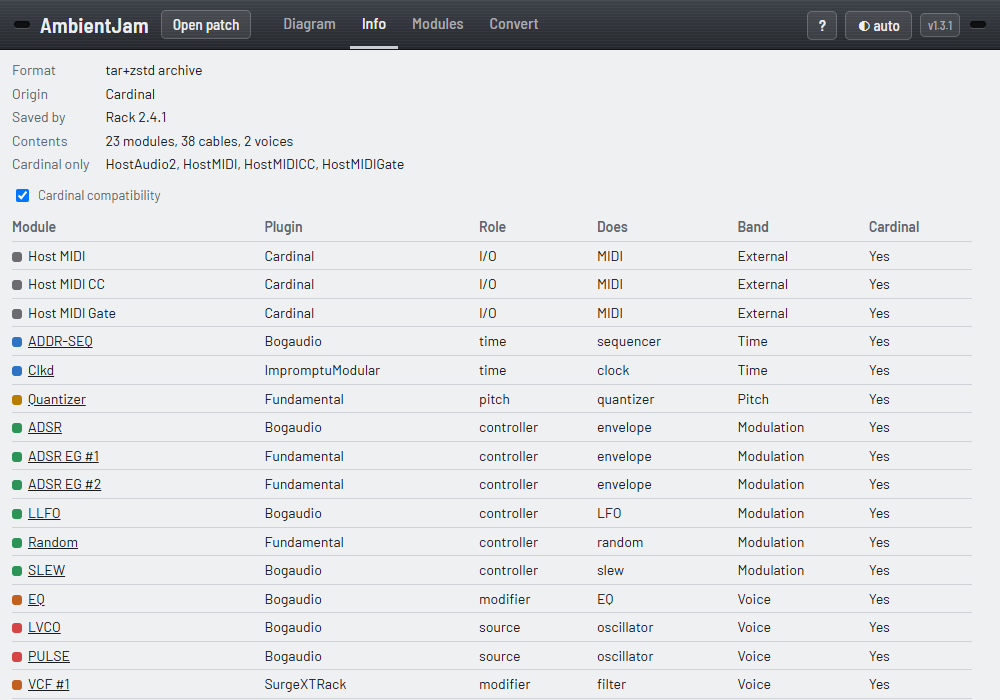
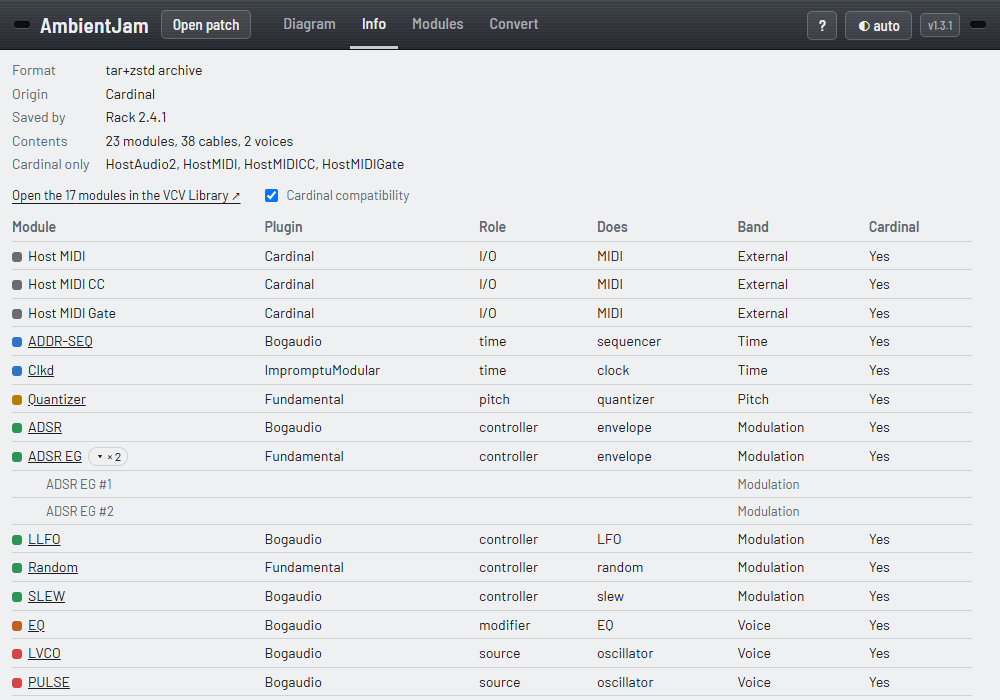
Info tab: group modules by kind, link them all to the VCV Library
One row per kind of module with its count, unfolded to its instances on a
click. A link above the table opens one Library page with all the patch's
modules (library.vcvrack.com/?modules=…), as Rack does for missing modules.

Changed region(s): [[0.0, 0.63, 0.992, 1.0], [0.0, 0.27, 0.403, 0.3]]

diff --git a/src/ModularPatchTools.Web/wwwroot/css/app.css b/src/ModularPatchTools.Web/wwwroot/css/app.css
@@ -287,7 +287,13 @@ body:has(.vpd-root[data-theme="dark"]) { background: #16171a; color-scheme: dark
 .vpd-info dt { color: var(--vpd-muted); }
 .vpd-info dd { margin: 0; overflow-wrap: anywhere; }
 .vpd-info dd ul.loops { margin: 0; padding: 0; list-style: none; }
-.vpd-info .info-option { display: inline-flex; align-items: center; gap: 6px; margin: 0 0 8px; font-size: 13px; color: var(--vpd-muted); cursor: pointer; }
+.vpd-info .info-tools { display: flex; flex-wrap: wrap; align-items: center; gap: 6px 20px; margin: 0 0 8px; }
+.vpd-info .library-all { font-size: 13px; text-underline-offset: 3px; }
+.vpd-info button.instances { margin-left: 6px; padding: 0 6px; border: 1px solid var(--vpd-line); border-radius: 9px; background: none; color: var(--vpd-muted); font: inherit; font-size: 12px; cursor: pointer; }
+.vpd-info button.instances:hover { color: var(--vpd-ink); }
+.vpd-info tr.instance td { color: var(--vpd-muted); font-size: 13px; }
+.vpd-info tr.instance td:first-child { padding-left: 34px; }
+.vpd-info .info-option { display: inline-flex; align-items: center; gap: 6px; margin: 0; font-size: 13px; color: var(--vpd-muted); cursor: pointer; }
 .vpd-info table { border-collapse: collapse; font-size: 14px; width: 100%; max-width: 960px; }
 .vpd-info th, .vpd-info td { text-align: left; padding: 4px 10px 4px 0; border-bottom: 1px solid var(--vpd-line); }
 .vpd-info th { color: var(--vpd-muted); font-weight: 600; }

diff --git a/tests/ModularPatchTools.Tests/Diagram/ExportTests.cs b/tests/ModularPatchTools.Tests/Diagram/ExportTests.cs
@@ -144,6 +144,9 @@ public class ExportTests
         Assert.Equal("https://library.vcvrack.com/AmbientModules/LunarFilter", VcvLibrary.PageUrl("AmbientModules/LunarFilter"));
         Assert.Equal("https://library.vcvrack.com/screenshots/200/Fundamental/VCF.webp", VcvLibrary.ScreenshotUrl("Fundamental/VCF", 200));
         Assert.Equal("https://library.vcvrack.com/Some%20Plugin/A%26B", VcvLibrary.PageUrl("Some Plugin/A&B"));
+        // One page for many modules, as Rack opens for a patch's missing modules; slugs escaped, each listed once.
+        Assert.Equal("https://library.vcvrack.com/?modules=Fundamental/VCF,Bogaudio/Bogaudio-LVCO,Some%20Plugin/A%26B%2CC",
+            VcvLibrary.ModulesUrl(new[] { "Fundamental/VCF", "Bogaudio/Bogaudio-LVCO", "Fundamental/VCF", "Some Plugin/A&B,C" }));
         Assert.False(VcvLibrary.IsListed("Cardinal"));
         Assert.True(VcvLibrary.IsListed("Fundamental"));
     }

diff --git a/src/ModularPatchTools.Core/Catalog/VcvLibrary.cs b/src/ModularPatchTools.Core/Catalog/VcvLibrary.cs
@@ -30,5 +30,11 @@ public static class VcvLibrary
     /// <param name="size">Width in pixels the Library serves: 100, 200 or 400.</param>
     public static string ScreenshotUrl(string key, int size) => $"{site}/screenshots/{size}/{Escape(key)}.webp";
 
+    /// <summary>
+    /// One Library page listing all these modules ("plugin/model" keys), the link Rack offers for a patch's missing
+    /// modules: from there, each one can be added to the user's account.
+    /// </summary>
+    public static string ModulesUrl(IEnumerable<string> keys) => $"{site}/?modules={string.Join(",", keys.Distinct(StringComparer.Ordinal).Select(Escape))}";
+
     private static string Escape(string key) => string.Join("/", key.Split('/').Select(Uri.EscapeDataString));
 }

diff --git a/README.md b/README.md
@@ -311,11 +311,11 @@ A click on the panel shows it full height; Escape or a click outside closes it.
 
 On a phone or tablet (portrait or landscape), the diagram fills the screen and opens fitted to its width. Drag with a finger anywhere to pan and pinch to zoom. Tap a module box for its ports, details, panel and VCV Library link; tap a library icon once to see the panel, twice to open the page. The exported `.html` page pans, pinches and previews panels the same way.
 
-The **Info** tab tells what the patch is (format, Rack or Cardinal, the Rack version that saved it) and lists every module with its plugin, role and function, linked to its VCV Library page, and whether Cardinal can load it. The **Convert** tab converts it to the other application and downloads the result, or opens it in the app.
+The **Info** tab tells what the patch is (format, Rack or Cardinal, the Rack version that saved it) and lists its modules with their plugin, role and function, linked to their VCV Library page, and whether Cardinal can load them: one row per kind of module, its instances listed when you click its count (*× 2*). A link above the table opens one VCV Library page with all of them, to add the missing ones to your account, as Rack offers when a patch has missing modules. The **Convert** tab converts it to the other application and downloads the result, or opens it in the app.
 
 <picture>
   <source media="(prefers-color-scheme: dark)" srcset="docs/screenshots/info-dark.png">
-  <img alt="The Info tab: format, origin, Rack version, contents, then a table of every module with its plugin, role, function and band" src="docs/screenshots/info-light.png">
+  <img alt="The Info tab: format, origin, Rack version, contents, then a link to all the modules in the VCV Library and a table of the modules by kind, with their plugin, role, function, band and Cardinal support, one kind unfolded to its two instances" src="docs/screenshots/info-light.png">
 </picture>
 
 `make publish-web` builds a static site in `publish/web/wwwroot`, which any static file server can host (no backend needed).

diff --git a/CHANGELOG.md b/CHANGELOG.md
@@ -10,6 +10,9 @@ made; on release, the section is renamed to the version and becomes the GitHub r
   from its lowest output just under its box into its lowest input, crossing nothing; such modules count as feedback
   loops (folded boxes hint at them, `inspect` lists them).
 - The Info tab lists the patch's feedback loops.
+- The Info tab groups modules of the same kind on one row, with their count; a click on it lists the instances.
+- The Info tab links to one VCV Library page with all the patch's modules, as Rack does for missing modules, to add
+  them to your account.
 - A **Cardinal compatibility** option, on by default, in the Info tab and the Diagram tab's Options: turned off, the
   Info tab's Cardinal column and the module sheet's Cardinal note go away, for Rack-only users. Remembered by the browser.
 
